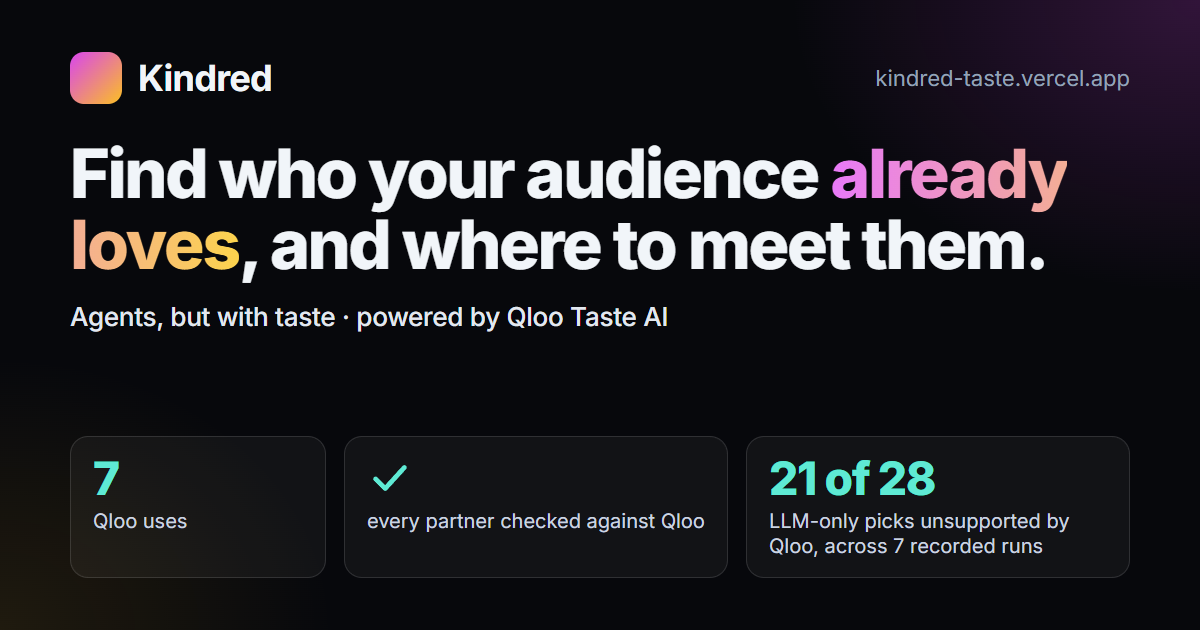
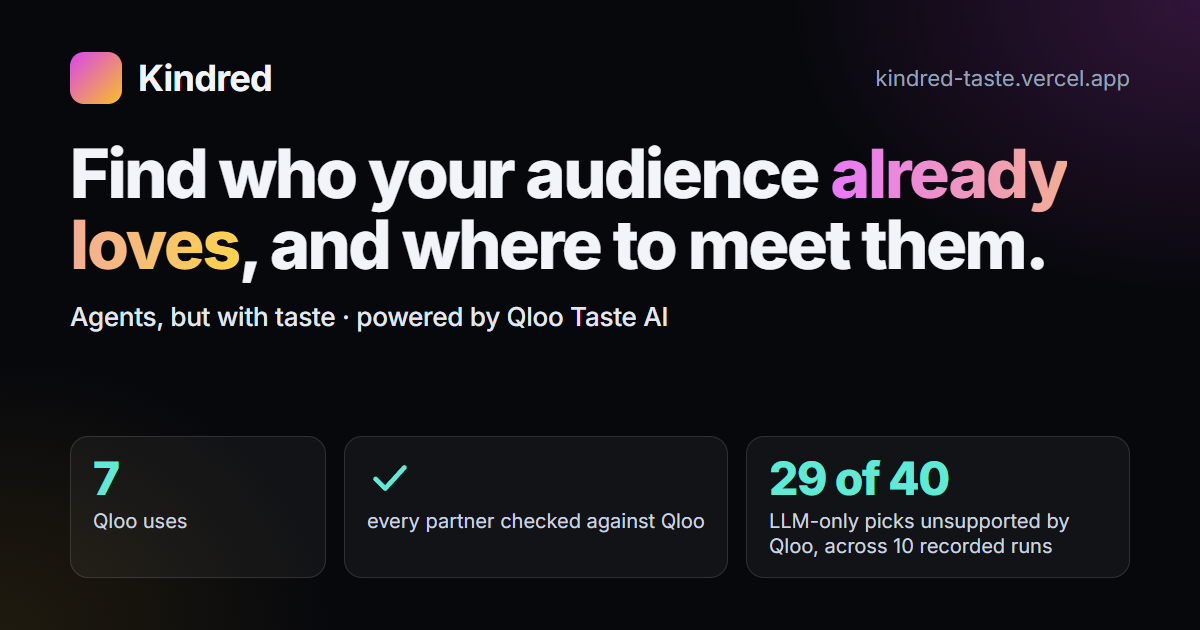
Recordings: Los Angeles Dodgers, Bad Bunny and Coachella (team, artist and festival as the subject) with scripts/totals.js, cover metric, README table and social card from it (29 of 40), warm list; map frame survives a stray hotspot; Dodgers' possessive

Changed region(s): [[0.6475, 0.7238, 0.8017, 0.7841], [0.74, 0.8444, 0.8942, 0.9048]]

diff --git a/scripts/unit.js b/scripts/unit.js
@@ -4,7 +4,7 @@ import { createHash } from 'node:crypto';
 import { brotliDecompressSync } from 'node:zlib';
 import { spawnSync } from 'node:child_process';
 import { fileURLToPath } from 'node:url';
-import { tourSteps, matchName, sameName, verifyBrief, compareSummary, compareText, cityLabel, kindredPicksOf, compactEvents, brandIdsOf, competitorCheck, splitCompetitors, screenBrief, focusCells, distanceKm, reachLabel, partnerReach, pickSubject } from '../public/js/core.js';
+import { tourSteps, matchName, sameName, verifyBrief, compareSummary, compareText, cityLabel, kindredPicksOf, compactEvents, brandIdsOf, competitorCheck, splitCompetitors, screenBrief, focusCells, distanceKm, reachLabel, partnerReach, pickSubject, poss } from '../public/js/core.js';
 import { profileOf } from '../lib/qloo.js';
 import { parsePicks, toDomain } from '../lib/baseline.js';
 import { encodeShare, decodeShare, sanitizeEvents } from '../public/js/share.js';
@@ -141,7 +141,9 @@ expect('hostile link content is reshaped to safe types', hostile.length === 2 &&
 // 7. Every recorded example is small and carries the brief and the LLM-only comparison.
 const examples = JSON.parse(read('public/examples/index.json'));
 // Rivals that earlier recordings proposed as partners (mock judging, round 1), kept as a regression list.
-const RIVALS = { 'patagonia-barcelona': ["Arc'teryx", 'The North Face', 'Fjällräven'], 'liquid-death-austin': ['Voodoo Ranger'], 'veja-paris': ['Osklen'], 'oatly-london': ['Ella Mills'], 'blue-bottle-tokyo': ['Fuglen Tokyo'] };
+const RIVALS = { 'patagonia-barcelona': ["Arc'teryx", 'The North Face', 'Fjällräven'], 'liquid-death-austin': ['Voodoo Ranger'], 'veja-paris': ['Osklen'], 'oatly-london': ['Ella Mills'], 'blue-bottle-tokyo': ['Fuglen Tokyo'],
+  // Round 3: a team's audience also loves other teams, which are not sponsors (the prompt says so; Qloo only tags the Angels).
+  'los-angeles-dodgers-los-angeles': ['Los Angeles Angels', 'Los Angeles Lakers', 'Los Angeles Rams', 'Los Angeles Chargers', 'Las Vegas Raiders', 'LA Kings'] };
 for (const ex of examples) {
   const path = `public/examples/${ex.slug}.json`;
   const ok = existsSync(new URL(path, root));
@@ -205,7 +207,7 @@ expect('browser scripts parse', ['public/app.js', 'public/js/core.js', 'public/j
   const header = html.match(/<header[\s\S]*<\/header>/)[0];
   expect('cover is the headline, one pitch line and the metric: the two long paragraphs are gone', /class="hero-line">Agents, but with taste\. Partnership and sponsorship briefs for brands, artists, teams and events, grounded in Qloo affinities and checked against the same model without Qloo\.<\/p>/.test(header)
     && /class="hero-stat"/.test(header) && (header.match(/<p /g) || []).length === 2 && !/No personal data, just culture|For partnership managers/.test(html));
-  expect('cover has the one-line pitch, the recorded-runs metric and the tour caption region', /Agents, but with taste/.test(html) && /21 of 28 picks/.test(html) && /id="tour"/.test(html) && /21 of the model's 28/.test(read('README.md')));
+  expect('cover has the one-line pitch, the recorded-runs metric and the tour caption region', /Agents, but with taste/.test(html) && /class="hero-stat"/.test(html) && /id="tour"/.test(html));
   expect('?example=x&tour=1 plays the requested example once: the tour reuses its replay', /maybeTour\(asked, asked \? openExample\(asked\) : null\)/.test(appSrc) && /if \(opened\) await opened;/.test(appSrc));
   expect('tour is local only: no network calls in tour.js, storage failures are caught', !/fetch\(/.test(read('public/js/tour.js')) && /catch/.test(read('public/js/tour.js')));
   expect('tour caption is fixed at the bottom with a CSP-safe stylesheet (no inline script)', /\.tour \{ position: fixed/.test(read('styles/input.css')) && !/<script(?![^>]*src=)/.test(html));
@@ -239,12 +241,15 @@ expect('browser scripts parse', ['public/app.js', 'public/js/core.js', 'public/j
   expect('focusCells frames the hotspots and the cells within 12 km, and leaves Girona out', f.length === 2 + 30 && f.every((p) => p.lat < 41.6) && f[0].lat === hot[0].lat && f[1].lng === hot[1].lng);
   const warm = Array.from({ length: 60 }, (_, i) => ({ lat: 10 + i, lng: 20, affinity: 1 - i / 100 }));
   const first40 = warm.slice(0, 40).map((p) => p.lat).join();
+  const stray = focusCells([...cells, { lat: 43.0, lng: -74.99, affinity: 1 }], [...hot, { lat: 41.41, lng: 2.18, affinity: 0.98 }, { lat: 43.0, lng: -74.99, affinity: 0.97 }]);
+  expect('one stray hotspot hundreds of km away does not drag the frame (median centre, hotspots beyond 24 km left out)', stray.length === 3 + 30 && stray.every((p) => p.lat < 41.6));
+  expect('two far-apart hotspots and no cells near the centre still frame the hotspots', focusCells([], [{ lat: 40, lng: 0 }, { lat: 42, lng: 3 }]).length === 2);
   expect('without two hotspots it frames the 40 warmest cells', focusCells(warm, []).length === 40 && focusCells(warm, [hot[0]]).length === 40 && focusCells([...warm].reverse(), []).map((p) => p.lat).join() === first40);
   expect('empty lists and broken coordinates give an empty frame', focusCells([], []).length === 0 && focusCells(undefined, undefined).length === 0 && focusCells([{ lat: 'x', lng: 1 }], [{ lat: NaN, lng: 1 }, hot[0]]).length === 0);
   expect('distanceKm is a haversine distance (Barcelona to Girona is about 85 km)', Math.abs(distanceKm({ lat: 41.3874, lng: 2.1686 }, { lat: 41.9794, lng: 2.8214 }) - 85) < 4);
   expect('the page frames that focus at city zoom and says how to see the rest', /focusCells\(cells, top\)/.test(appSrc) && /maxZoom: 13/.test(appSrc) && /pad\(0\.25\)/.test(appSrc) && /Zoom out to see the whole region\./.test(appSrc));
   const spanKm = (ps) => distanceKm({ lat: Math.min(...ps.map((p) => p.lat)), lng: Math.min(...ps.map((p) => p.lng)) }, { lat: Math.max(...ps.map((p) => p.lat)), lng: Math.max(...ps.map((p) => p.lng)) });
-  for (const slug of ['patagonia-barcelona', 'liquid-death-austin', 'blue-bottle-tokyo']) {
+  for (const { slug } of examples) {
     const h = JSON.parse(read(`public/examples/${slug}.json`)).find((e) => e.type === 'heatmap').data;
     const frame = spanKm(focusCells(h.cells, h.top));
     expect(`example ${slug}: the map frame is city scale (${Math.round(frame)} km corner to corner; all cells: ${Math.round(spanKm(h.cells))} km)`, frame > 5 && frame < 40);
@@ -299,6 +304,9 @@ expect('browser scripts parse', ['public/app.js', 'public/js/core.js', 'public/j
   expect('pickSubject with the typed name: a look-alike brand never beats the artist who was asked for', pickSubject([e('l', 'Skinny Bunny Tea', 'brand'), e('p', 'Bad Bunny', 'person'), e('a', 'Bad Bunny', 'artist')], 'Bad Bunny')?.id === 'a'
     && pickSubject([e('l', 'Patagonia', 'locality'), e('b', 'Patagonia', 'brand'), e('p', 'Patagonia', 'place')], 'Patagonia')?.id === 'b' && pickSubject([e('b', 'Los Angeles Dodgers', 'brand'), e('f', 'Dodgers Foundation', 'brand')], 'dodgers')?.id === 'b');
 
+  expect("possessives of names that end in s read right (\"Dodgers' audience\", not \"Dodgers's\")", poss('Patagonia') === "Patagonia's" && poss('Los Angeles Dodgers') === "Los Angeles Dodgers'"
+    && /never Los Angeles Dodgers' audience/.test(compareText(sc, 'Los Angeles', 'Los Angeles Dodgers').cityNote) && /never the brand's audience/.test(compareText(sc, 'Barcelona').cityNote));
+
   const agentSrc = read('lib/agent.js');
   const baseSrc = read('lib/baseline.js');
   expect('agent prompt: subject may be a brand, artist, team, festival, venue or media title; sponsors rule after the competitor rule, which is unchanged for brands',
@@ -312,6 +320,27 @@ expect('browser scripts parse', ['public/app.js', 'public/js/core.js', 'public/j
     /Matched <b>\$\{esc\(\(s \|\| data\.results\[0\]\)\.name\)\}<\/b>\$\{s && s\.type !== 'brand'/.test(appSrc) && /\$\{esc\(state\.subject\.name\)\} \(\$\{esc\(state\.subject\.type\)\}\)/.test(appSrc)
     && JSON.stringify(sanitizeEvents([{ type: 'entities', data: { results: [], subject: { name: { x: 1 }, type: ['a'], extra: 1 } } }])[0].data.subject) === '{"name":"[object Object]","type":"a"}'
     && sanitizeEvents([{ type: 'entities', data: { results: [], subject: 'x' } }])[0].data.subject === undefined);
+}
+
+// 16. The recordings and their totals: the cover metric, the README and the social card quote what scripts/totals.js computes
+// from the recorded runs (re-record, run `node scripts/totals.js`, update the three together).
+{
+  const { totals, tableRow } = await import('./totals.js');
+  const t = totals();
+  const html = read('public/index.html');
+  const readme = read('README.md');
+  const card = read('docs/og.html');
+  const warm = JSON.parse(read('scripts/warm-list.json'));
+  expect(`${t.examples} recorded runs (at least 10), every one in the totals: ${t.llm_unsupported} of ${t.llm_total} LLM-only picks unsupported, Kindred ${t.kindred_city_present} of ${t.kindred_city_checked} in city data, LLM ${t.llm_city_present} of ${t.llm_city_checked} (${t.llm_not_in_qloo} not in Qloo)`,
+    examples.length >= 10 && t.examples === examples.length && t.llm_total > 0 && t.llm_unsupported <= t.llm_total && t.llm_city_present + t.llm_not_in_qloo <= t.llm_city_checked
+    && t.kindred_city_checked === t.kindred_total && t.kindred_city_present === t.kindred_city_checked && t.kindred_non_obvious === t.kindred_total);
+  expect('cover metric quotes the totals of the recordings', html.includes(`In ${t.examples} recorded runs, ${t.llm_unsupported} of ${t.llm_total} picks from the model alone had no Qloo support for the audience.`));
+  expect('README quotes the same totals (plain finding, city check, partners the model alone missed) and has one table row per recorded run',
+    readme.includes(`Across ${t.examples} recorded runs`) && readme.includes(`${t.llm_unsupported} of the model's ${t.llm_total} picks had no Qloo support`)
+    && readme.includes(`All ${t.kindred_city_present} of Kindred's partners appear in Qloo's data for their city; ${t.llm_city_present} of the model's ${t.llm_city_checked} picks do, and ${t.llm_not_in_qloo} are not in Qloo at all.`)
+    && readme.includes(`None of Kindred's ${t.kindred_total} partners was named by the model alone.`) && t.runs.every((r) => readme.includes(tableRow(r))));
+  expect('social card quotes the same totals', card.includes(`<div class="v">${t.llm_unsupported} of ${t.llm_total}</div>`) && card.includes(`across ${t.examples} recorded runs`));
+  expect('every recorded example is in the warm list with its brand, market and goal, and the README counts the list', examples.every((ex) => warm.some((w) => w.brand === ex.brand && w.market === ex.market && w.goal === ex.goal)) && readme.includes(`pre-warms ${warm.length} subject/city pairs`));
 }
 
 console.log(failed ? `${failed} check(s) failed` : 'all unit checks passed');

diff --git a/scripts/totals.js b/scripts/totals.js
@@ -1,0 +1,57 @@
+// Totals of the "With Qloo vs LLM only" comparison over the recorded runs (public/examples, listed in index.json).
+// The cover metric, the README and docs/og.html quote these numbers and scripts/unit.js checks that they do, so after
+// re-recording run this and update them together.
+//   node scripts/totals.js            print the totals and one line per run
+//   node scripts/totals.js --table    print the README table rows
+import { readFileSync } from 'node:fs';
+import { resolve } from 'node:path';
+import { fileURLToPath } from 'node:url';
+import { compareSummary, verifyBrief } from '../public/js/core.js';
+
+const dir = new URL('../public/examples/', import.meta.url);
+const read = (f) => JSON.parse(readFileSync(new URL(f, dir), 'utf8'));
+const pct = (n) => (typeof n === 'number' ? `${Math.round(n * 100)}%` : 'n/a');
+const AGE = { '35_and_younger': '35 and younger', '36_to_55': '36 to 55', '55_and_older': '55 and older' };
+
+// One entry per recorded run, computed with the same compareSummary the page uses, plus the sums.
+export function totals() {
+  const t = { examples: 0, llm_total: 0, llm_unsupported: 0, llm_not_in_qloo: 0, llm_city_checked: 0, llm_city_present: 0,
+    kindred_total: 0, kindred_city_checked: 0, kindred_city_present: 0, kindred_non_obvious: 0, runs: [] };
+  for (const ex of read('index.json')) {
+    const ev = read(`${ex.slug}.json`);
+    const aff = {};
+    for (const e of ev) if (e.type === 'affinities') aff[e.data.domain] = e.data.results || [];
+    const raw = ev.find((e) => e.type === 'brief')?.data;
+    const base = ev.find((e) => e.type === 'baseline')?.data;
+    if (!raw || !base) continue;
+    const s = compareSummary(raw.provenance ? raw : verifyBrief(raw, aff), base);
+    const c = s.city || { llm_present: 0, llm_checked: 0, llm_not_in_qloo: 0, kindred_present: 0, kindred_checked: 0 };
+    const run = { slug: ex.slug, brand: ex.brand, market: ex.market, goal: ex.goal, age: ex.age || null,
+      llm_total: s.llm_only.length, llm_unsupported: s.llm_unsupported, llm_city_present: c.llm_present, llm_city_checked: c.llm_checked, llm_not_in_qloo: c.llm_not_in_qloo,
+      kindred_total: s.kindred.length, kindred_city_present: c.kindred_present, kindred_city_checked: c.kindred_checked, kindred_non_obvious: s.non_obvious,
+      kindred_avg: s.kindred_avg, llm_avg: s.llm_avg, llm_scored: s.llm_scored };
+    t.runs.push(run);
+    t.examples++;
+    for (const k of ['llm_total', 'llm_unsupported', 'llm_not_in_qloo', 'llm_city_checked', 'llm_city_present', 'kindred_total', 'kindred_city_checked', 'kindred_city_present', 'kindred_non_obvious']) t[k] += run[k];
+  }
+  return t;
+}
+
+// A README table row, as the table under "With Qloo vs LLM only" writes it.
+export const tableRow = (r) => `| ${r.brand} · ${r.market} (${r.goal.toLowerCase()}${r.age ? `, ${AGE[r.age] || r.age}` : ''}) | ${r.llm_unsupported} of ${r.llm_total} | ${r.kindred_city_present} of ${r.kindred_city_checked} · ${r.llm_city_present} of ${r.llm_city_checked} | ${r.kindred_non_obvious} of ${r.kindred_total} | ${pct(r.kindred_avg)} · ${pct(r.llm_avg)} (${r.llm_scored} of ${r.llm_total}) |`;
+
+function main() {
+  const t = totals();
+  if (process.argv.includes('--table')) {
+    t.runs.forEach((r) => console.log(tableRow(r)));
+    return;
+  }
+  console.log(`Recorded runs: ${t.examples}`);
+  console.log(`LLM-only picks with no Qloo support for the audience: ${t.llm_unsupported} of ${t.llm_total}`);
+  console.log(`Kindred partners in Qloo's city data (city signal only): ${t.kindred_city_present} of ${t.kindred_city_checked}`);
+  console.log(`LLM-only picks in Qloo's city data: ${t.llm_city_present} of ${t.llm_city_checked}, not in Qloo at all: ${t.llm_not_in_qloo}`);
+  console.log(`Kindred partners the LLM alone did not name: ${t.kindred_non_obvious} of ${t.kindred_total}`);
+  for (const r of t.runs) console.log(`  ${r.slug.padEnd(34)} unsupported ${r.llm_unsupported}/${r.llm_total} · city K ${r.kindred_city_present}/${r.kindred_city_checked} L ${r.llm_city_present}/${r.llm_city_checked} (${r.llm_not_in_qloo} not in Qloo) · non-obvious ${r.kindred_non_obvious}/${r.kindred_total}`);
+}
+
+if (process.argv[1] && resolve(process.argv[1]) === fileURLToPath(import.meta.url)) main();

diff --git a/public/js/core.js b/public/js/core.js
@@ -112,7 +112,7 @@ export function competitorCheck(brand, cand) {
   const industries = (B.industry || []).filter((i) => !BROAD.has(lower(i)));
   if (cand.type === 'place') {
     const [ind, cat] = overlapPair(industries, C.category);
-    return ind ? { rule: 'same_business', reason: `Its Qloo category (${cat}) is ${brand.name}'s own business (${ind})` } : null;
+    return ind ? { rule: 'same_business', reason: `Its Qloo category (${cat}) is ${poss(brand.name)} own business (${ind})` } : null;
   }
   const ind = industries.find((i) => (C.industry || []).some((j) => lower(j) === lower(i)));
   const cat = (B.category || []).find((c) => (C.category || []).some((d) => lower(d) === lower(c)));
@@ -221,6 +221,8 @@ export function kindredPicksOf(brief) {
 }
 
 const of = (a, b) => `${a} of ${b}`;
+// Possessive of a name: "Patagonia's", "Los Angeles Dodgers'".
+export const poss = (name) => (/s$/i.test(String(name)) ? `${name}'` : `${name}'s`);
 
 // Plain-language lines for the comparison panel, finding first. s: compareSummary(); market: the city.
 //   finding  the model-alone picks with no Qloo support for this audience in the market;
@@ -243,7 +245,7 @@ export function compareText(s, market, brand) {
     llm: c.llm_checked ? of(c.llm_present, c.llm_checked) : 'not checked',
     llm_note: c.llm_not_in_qloo ? `${c.llm_not_in_qloo} not in Qloo at all` : '',
   } : null;
-  const cityNote = c ? `City check: this query sends Qloo only the city (${c.market || m}), never ${brand || 'the brand'}'s audience, so it is not the ranking Kindred chose from and the check is not circular.` : '';
+  const cityNote = c ? `City check: this query sends Qloo only the city (${c.market || m}), never ${poss(brand || 'the brand')} audience, so it is not the ranking Kindred chose from and the check is not circular.` : '';
   return { finding, city, cityNote };
 }
 
@@ -332,17 +334,20 @@ export function distanceKm(a, b) {
 }
 
 // What the activation map frames. Qloo's heatmap cells can run across a whole region (Barcelona: Lleida to Girona), so
-// fitting all of them shows Catalonia, not the city. Frame the hotspots plus the cells within `km` of their centroid;
+// fitting all of them shows Catalonia, not the city. Frame the hotspots plus the cells within `km` of their centre;
 // with fewer than two hotspots there is no centre to trust, so use the `fallback` warmest cells. Every cell is still
-// drawn: zooming out reveals them. Returns [{ lat, lng }].
+// drawn: zooming out reveals them. The centre is the median of the hotspots, not their mean, and a hotspot more than
+// twice `km` from it is left out of the frame (the New York run has one upstate, 300 km away: a mean would drag the
+// view there). Returns [{ lat, lng }].
 export function focusCells(cells = [], top = [], { km = 12, fallback = 40 } = {}) {
   const ok = (p) => p && Number.isFinite(p.lat) && Number.isFinite(p.lng);
   const pts = (Array.isArray(cells) ? cells : []).filter(ok);
   const hot = (Array.isArray(top) ? top : []).filter(ok);
   const xy = ({ lat, lng }) => ({ lat, lng });
   if (hot.length < 2) return [...pts].sort((a, b) => (b.affinity ?? 0) - (a.affinity ?? 0)).slice(0, fallback).map(xy);
-  const centre = { lat: hot.reduce((s, p) => s + p.lat, 0) / hot.length, lng: hot.reduce((s, p) => s + p.lng, 0) / hot.length };
-  return [...hot, ...pts.filter((p) => distanceKm(p, centre) <= km)].map(xy);
+  const centre = { lat: median(hot.map((p) => p.lat)), lng: median(hot.map((p) => p.lng)) };
+  const framed = [...hot.filter((p) => distanceKm(p, centre) <= 2 * km), ...pts.filter((p) => distanceKm(p, centre) <= km)];
+  return (framed.length ? framed : hot).map(xy);
 }
 
 // The three-step cover tour: which block each caption points at (ids that exist in index.html) and what it says.

diff --git a/public/app.js b/public/app.js
@@ -1,4 +1,4 @@
-import { tourSteps, verifyBrief, compareSummary, compareText, cityLabel, kindredPicksOf, brandIdsOf, focusCells, reachLabel, partnerReach } from './js/core.js';
+import { tourSteps, verifyBrief, compareSummary, compareText, cityLabel, kindredPicksOf, brandIdsOf, focusCells, reachLabel, partnerReach, poss } from './js/core.js';
 import { startTour, tourSeen } from './js/tour.js';
 import { encodeShare, decodeShare } from './js/share.js';
 
@@ -225,7 +225,7 @@ function renderBrief(raw) {
   const venues = A.venue_evidence || (A.venues || []).map((v) => ({ name: v, evidence: null }));
   const skipped = b.skipped_competitors || [];
   const skipNote = skipped.length ? `<div class="mt-3 rounded-lg border border-white/10 bg-white/[.02] px-3 py-2.5 text-xs text-slate-400">
-      <div class="flex flex-wrap items-center gap-2"><span class="font-medium text-slate-200">Skipped as direct competitors</span>${QTAG}<span class="text-slate-500">high affinity inside ${esc(state.input.brand)}'s own category means a rival, not a partner</span></div>
+      <div class="flex flex-wrap items-center gap-2"><span class="font-medium text-slate-200">Skipped as direct competitors</span>${QTAG}<span class="text-slate-500">high affinity inside ${esc(poss(state.input.brand))} own category means a rival, not a partner</span></div>
       <ul class="mt-1.5 space-y-1">${skipped.slice(0, 5).map((x) => `<li><b class="font-medium text-slate-300">${esc(x.name)}</b>${typeof x.affinity === 'number' ? ` <span class="tabular-nums">${pct(x.affinity)}</span>` : ''} · ${esc(x.reason)}${x.proposed ? ' · <span class="text-amber-200/90">proposed by the model, removed by the server check</span>' : ''}</li>`).join('')}</ul>
       ${skipped.length > 5 ? `<p class="mt-1 text-slate-500">Also skipped: ${esc(skipped.slice(5).map((x) => x.name).join(', '))}.</p>` : ''}
     </div>` : '';

diff --git a/docs/og.html b/docs/og.html
@@ -35,7 +35,7 @@
     <div class="facts">
       <div class="fact"><div class="v">7</div><div class="l">Qloo uses</div></div>
       <div class="fact"><div class="v"><svg width="46" height="46" viewBox="0 0 48 48" fill="none" stroke="#5eead4" stroke-width="5" stroke-linecap="round" stroke-linejoin="round"><path d="M9 25l10 10L39 13"/></svg></div><div class="l">every partner checked against Qloo</div></div>
-      <div class="fact"><div class="v">21 of 28</div><div class="l">LLM-only picks unsupported by Qloo, across 7 recorded runs</div></div>
+      <div class="fact"><div class="v">29 of 40</div><div class="l">LLM-only picks unsupported by Qloo, across 10 recorded runs</div></div>
     </div>
   </div>
 </body>

diff --git a/public/index.html b/public/index.html
@@ -37,7 +37,7 @@
       <br class="hidden md:block"> and where to meet them.
     </h1>
     <p class="hero-line">Agents, but with taste. Partnership and sponsorship briefs for brands, artists, teams and events, grounded in Qloo affinities and checked against the same model without Qloo.</p>
-    <p class="hero-stat">In 7 recorded runs, 21 of 28 picks from the model alone had no Qloo support for the audience.</p>
+    <p class="hero-stat">In 10 recorded runs, 29 of 40 picks from the model alone had no Qloo support for the audience.</p>
   </header>
 
   <main class="max-w-6xl mx-auto px-4 pb-16">

diff --git a/README.md b/README.md
@@ -2,7 +2,7 @@
 
 **Find who your audience already loves, and where to meet them.**
 
-Kindred is an AI agent for brand and partnership teams. Give it a brand, a market city and a goal. It uses **Qloo Taste AI** to read the cultural affinities of that brand's audience across music, podcasts, TV, film, brands and places, maps where that audience concentrates in the city, and writes a partnership brief in which every partner and venue is checked against Qloo results from that run. Direct competitors are kept out using Qloo's own brand tags, and the brief says which ones were skipped and why.
+Kindred is an AI agent for partnership and sponsorship teams at brands, clubs, promoters and agencies. Give it a subject (a brand, an artist, a team, a festival or a venue), a market city and a goal. It uses **Qloo Taste AI** to read the cultural affinities of that audience across music, podcasts, TV, film, brands and places, maps where that audience concentrates in the city, and writes a partnership or sponsorship brief in which every partner and venue is checked against Qloo results from that run. Direct competitors are kept out using Qloo's own brand tags, and the brief says which ones were skipped and why.
 
 Live demo: https://kindred-taste.vercel.app (no login). Built for the Qloo Agentic Hackathon. MIT licence.
 
@@ -39,13 +39,13 @@ Partnerships, sponsorships and pop-ups are usually picked by gut feeling, by who
 
 ## With Qloo vs LLM only
 
-Every brief can be compared with what the same model says without Qloo. For the same brand, market and goal, the model answers in one call with no tools and no data. Then Qloo checks both answers. Misses are reported as such, never imputed.
+Every brief can be compared with what the same model says without Qloo. For the same subject, market and goal, the model answers in one call with no tools and no data. Then Qloo checks both answers. Misses are reported as such, never imputed.
 
-**The plain finding.** Across seven recorded runs (October 2026, model `gemini-flash-lite-latest`), 21 of the model's 28 picks had no Qloo support for the brand's audience in that city: Qloo returned no affinity for them, or its search did not find them at all.
+**The plain finding.** Across 10 recorded runs (October 2026, model `gemini-flash-lite-latest`), 29 of the model's 40 picks had no Qloo support for the audience in that city: Qloo returned no affinity for them, or its search did not find them at all.
 
-**The city check, which is not circular.** Kindred picks partners from the audience's Qloo affinities, so scoring both columns with that same audience query favours Kindred by design. The city check avoids that: it asks Qloo whether each pick appears in its data for the city at all, sending only the city (`signal.location.query`) and never the brand's audience. All 22 of Kindred's partners appear in Qloo's data for their city; 7 of the model's 28 picks do, and 8 are not in Qloo at all.
+**The city check, which is not circular.** Kindred picks partners from the audience's Qloo affinities, so scoring both columns with that same audience query favours Kindred by design. The city check avoids that: it asks Qloo whether each pick appears in its data for the city at all, sending only the city (`signal.location.query`) and never the subject's audience. All 32 of Kindred's partners appear in Qloo's data for their city; 11 of the model's 40 picks do, and 10 are not in Qloo at all.
 
-| Brand · market (goal) | LLM-only picks with no Qloo support | In Qloo's city data, city signal only: Kindred · LLM only | Kindred picks the LLM alone missed | Avg audience affinity: Kindred · LLM only (scored) |
+| Subject · market (goal) | LLM-only picks with no Qloo support | In Qloo's city data, city signal only: Kindred · LLM only | Kindred picks the LLM alone missed | Avg audience affinity: Kindred · LLM only (scored) |
 |---|---|---|---|---|
 | Patagonia · Barcelona (brand partnership or co-branded collab) | 3 of 4 | 3 of 3 · 1 of 4 | 3 of 3 | 95% · 85% (1 of 4) |
 | Oatly · London (pop-up activation) | 3 of 4 | 4 of 4 · 1 of 4 | 4 of 4 | 97% · 85% (1 of 4) |
@@ -54,13 +54,16 @@ Every brief can be compared with what the same model says without Qloo. For the 
 | Robinhood · New York (podcast or media sponsorship) | 3 of 4 | 3 of 3 · 1 of 4 | 3 of 3 | 94% · 69% (1 of 4) |
 | Veja · Paris (creator or talent partnership) | 4 of 4 | 3 of 3 · 0 of 4 | 3 of 3 | 92% · n/a (0 of 4) |
 | Greenpeace · Mexico City (music or event sponsorship, 35 and younger) | 2 of 4 | 3 of 3 · 2 of 4 | 3 of 3 | 94% · 88% (2 of 4) |
+| Los Angeles Dodgers · Los Angeles (sponsors for an artist, team or event) | 1 of 4 | 3 of 3 · 3 of 4 | 3 of 3 | 94% · 89% (3 of 4) |
+| Bad Bunny · Miami (sponsors for an artist, team or event) | 3 of 4 | 4 of 4 · 1 of 4 | 4 of 4 | 95% · 89% (1 of 4) |
+| Coachella Music Festival · Los Angeles (sponsors for an artist, team or event) | 4 of 4 | 3 of 3 · 0 of 4 | 3 of 3 | 95% · n/a (0 of 4) |
 
-None of Kindred's 22 partners was named by the model alone. The affinity averages (last column) are kept for reference only, for the reason above: Kindred's partners come from the top of that same ranking. What the table shows is that a model on its own does not know these affinities: its picks are often local and plausible but unsupported. Five runs were re-recorded on 6 October 2026 with the competitor filter, and the city check was added to all seven the same day from their stored picks; none of the seven briefs contains a direct competitor. The comparison runs live too (button under any live brief), within the same rate limits.
+None of Kindred's 32 partners was named by the model alone. The affinity averages (last column) are kept for reference only, for the reason above: Kindred's partners come from the top of that same ranking. What the table shows is that a model on its own does not know these affinities: its picks are often local and plausible but unsupported, though not everywhere: for the Dodgers only 1 of the model's 4 picks lacks Qloo support. Five runs were re-recorded on 6 October 2026 with the competitor filter, and the city check was added to the first seven the same day from their stored picks; the Dodgers, Bad Bunny and Coachella runs were recorded that day too, with the agent that accepts artists, teams and festivals as the subject. None of the ten briefs contains a direct competitor. The comparison runs live too (button under any live brief), within the same rate limits.
 
 ## How it works
 
 ```
-brand, market, goal ─► server resolves the brand in Qloo (/search)
+subject, market, goal ─► server resolves the subject in Qloo (/search; a brand, team or festival is a brand entity, an artist is not)
                     ─► LLM agent with tool calling (Gemini, OpenAI-compatible API)
                           get_affinities        /v2/insights  filter.type=urn:entity:{artist|podcast|tv_show|brand|place|...}
                           get_heatmap           /v2/insights  filter.type=urn:heatmap
@@ -74,7 +77,7 @@ brand, market, goal ─► server resolves the brand in Qloo (/search)
 
 Why these Qloo calls fit the problem:
 
-- **Entity resolution** (`/search`) pins the brand to a Qloo entity id. The id, not the name, is the signal for everything else.
+- **Entity resolution** (`/search`) pins the subject to a Qloo entity id. The id, not the name, is the signal for everything else. Teams, clubs and festivals are `brand` entities; an artist comes back as `person` and `artist` with the same name, and Kindred queries the `artist`. A brand search for an artist returns look-alikes (Bad Bunny finds "Skinny Bunny Tea"), so the brand search is only accepted when one of its results carries the name that was asked for, and the search without a type decides otherwise.
 - **Cross-domain affinities** (`/v2/insights`, `signal.interests.entities=<brand id>`, one call per domain, localized with `signal.location.query`) answer "who does this audience over-index on" in music, podcasts, TV, brands and more. This is the part an LLM cannot know.
 - **Places** (`filter.type=urn:entity:place`, `filter.location.query`) give concrete venues in the market city.
 - **Heatmap** (`filter.type=urn:heatmap`) shows where in the city the audience concentrates; hotspots get neighbourhood names from OpenStreetMap.
@@ -126,7 +129,7 @@ Patagonia, Barcelona, "Brand partnership or co-branded collab", recorded run of 
 
 ## Demo resilience
 
-- **Recorded real runs** of seven brands in seven cities (outdoor apparel in Barcelona, plant-based food in London, beverages in Austin, specialty coffee in Tokyo, fintech in New York, sneakers in Paris, a nonprofit in Mexico City with an under-35 audience). They replay the exact event stream, including the LLM-only comparison, with no API calls. Each is 20-40 KB. Direct links: `/?example=patagonia-barcelona`, `/?example=blue-bottle-tokyo`, and so on (slugs in `public/examples/index.json`).
+- **Recorded real runs** of ten subjects in nine cities (outdoor apparel in Barcelona, plant-based food in London, beverages in Austin, specialty coffee in Tokyo, fintech in New York, sneakers in Paris, a nonprofit in Mexico City with an under-35 audience, a baseball team and a music festival in Los Angeles, and an artist in Miami). They replay the exact event stream, including the LLM-only comparison, with no API calls. Each is 20-40 KB. Direct links: `/?example=patagonia-barcelona`, `/?example=blue-bottle-tokyo`, and so on (slugs in `public/examples/index.json`).
 - **Share links without storage.** "Copy share link" puts the whole brief, compressed, in the URL fragment (`/#b=...`, about 7 KB). Browsers never send the fragment to a server, nothing is stored, and the link reopens the brief even when quotas run out. Opened links are sanitized (known shapes only, no remote images) and labelled as snapshots.
 - **Friendly limits.** When Qloo, the model or the demo limit says "not now", the UI explains it and offers the recorded runs and a retry.
 
@@ -164,11 +167,11 @@ Deploy: Vercel, with `QLOO_API_KEY` and `GEMINI_API_KEY` as environment variable
 - Entity matching between names and Qloo entities is deliberately conservative; a correct partner written with an unusual spelling can show as unverified.
 - Neighbourhood names come from OpenStreetMap reverse geocoding of heatmap cells and can be approximate.
 - Recorded examples and share links reflect Qloo data on the day they were made. A share link can be edited by whoever shares it; re-run the brief to confirm.
-- The live demo shares one event-issued Qloo key and a free model tier, so the limits are per instance (in memory), not global. What carries the demo under load: the seven recorded runs (no API calls), a cacheable `GET /api/brief` (CDN `s-maxage`, keyed only on the four allow-listed inputs, errors never cached), an in-memory cache and single-flight per instance so identical briefs run once, and `/api/health` (5-minute cached). `node scripts/warm.js` pre-warms 25 brand/city pairs.
+- The live demo shares one event-issued Qloo key and a free model tier, so the limits are per instance (in memory), not global. What carries the demo under load: the ten recorded runs (no API calls), a cacheable `GET /api/brief` (CDN `s-maxage`, keyed only on the four allow-listed inputs, errors never cached), an in-memory cache and single-flight per instance so identical briefs run once, and `/api/health` (5-minute cached). `node scripts/warm.js` pre-warms 28 subject/city pairs.
 
 ## Data handling and security
 
-- Kindred sends Qloo only a brand name, a city and an optional age band. It collects no personal data, has no accounts and stores no briefs on a server.
+- Kindred sends Qloo only the subject's name (a brand, artist, team, festival or venue), a city and an optional age band. It collects no personal data, has no accounts and stores no briefs on a server.
 - Keys live only in server-side environment variables. Upstream error bodies go to server logs with secrets redacted; users see generic messages.
 - Strict Content-Security-Policy with no third-party scripts or fonts: Tailwind is compiled at build time, Leaflet and the Inter font are self-hosted with recorded hashes (`public/vendor`).
 - The agent and brief endpoints enforce input allow-lists, a same-origin check, a per-IP rate limit and a concurrency cap. User fields are treated as data in prompts, and all model output is HTML-escaped before rendering.
